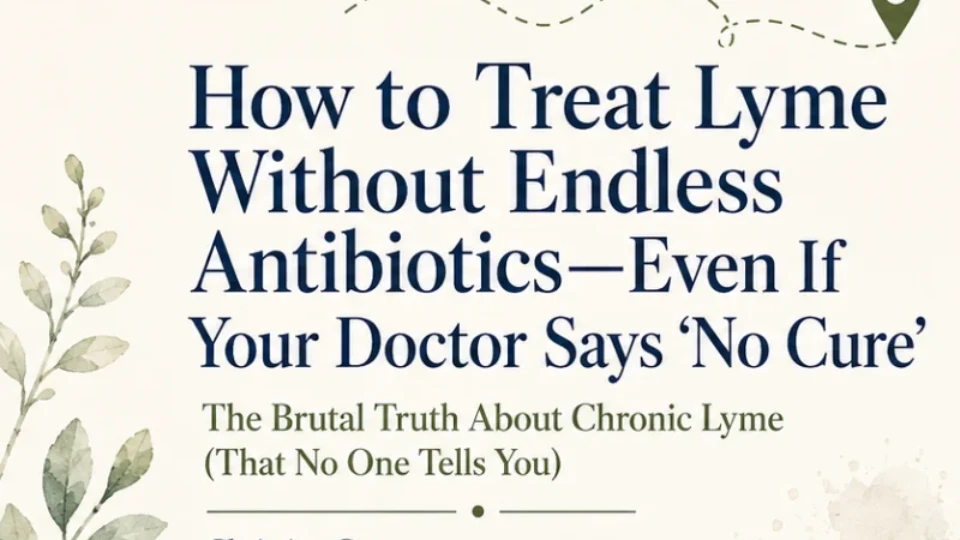
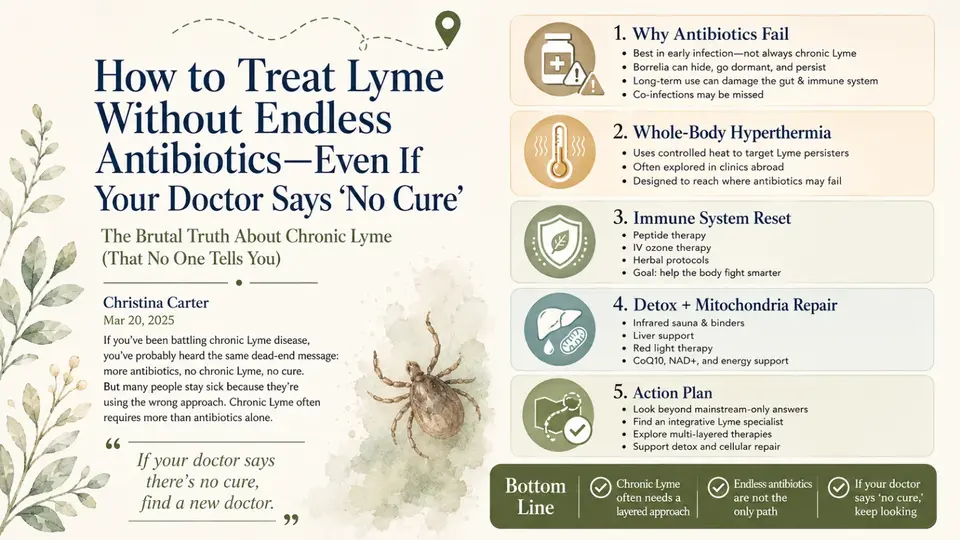
Polish two more blog card thumbnails (roadmap + treat-without-antibiotics) (#108)
Follow-up to the card-thumbnail fixes. Both cards were technically
readable but imperfect:

- Treat Lyme Without Antibiotics: the card was a slice of the taller
  infographic (byline cut, looked empty). Rebuilt it from the clean
  1600x900 source (treat-lyme-without-antibiotics-infographic.webp) so
  the full composition shows; cache-bust ?v=20261109 (filename unchanged).

- Chronic Lyme Recovery Roadmap: the card used the full 3:2 image, which
  cover-cropped the eyebrow label and bottom tagline on the 16:9 card.
  Added a dedicated 16:9 center crop (keeps the title and the full "360°
  Roadmap" strip) and repointed the 7 post-card usages. The roadmap page
  hero/og and the homepage feature banner still use the full image.

Claude-Session: https://claude.ai/code/session_0147C8brWaCjPDSG4Vf6wbng

diff --git a/blog-antibiotics.html b/blog-antibiotics.html
@@ -351,7 +351,7 @@
     <div class="rn-head"><span class="eyebrow">Keep Reading</span><h2>What to read next</h2></div>
     <div class="rn-grid">
       <a class="post-card" href="blog-treat-lyme-without-antibiotics.html">
-        <div class="media"><img width="960" height="540" src="assets/img/treat-lyme-without-antibiotics-infographic-card.webp" alt="How to treat Lyme without endless antibiotics" loading="lazy" decoding="async" style="width:100%;height:100%;object-fit:cover;display:block;" /></div>
+        <div class="media"><img width="960" height="540" src="assets/img/treat-lyme-without-antibiotics-infographic-card.webp?v=20261109" alt="How to treat Lyme without endless antibiotics" loading="lazy" decoding="async" style="width:100%;height:100%;object-fit:cover;display:block;" /></div>
         <div class="body">
           <div class="cat">Treatment · Beyond Antibiotics</div>
           <h3>How to Treat Lyme Without Endless Antibiotics</h3>
@@ -365,7 +365,7 @@
         </div>
       </a>
       <a class="post-card" href="chronic-lyme-recovery-roadmap.html">
-        <div class="media"><img width="1536" height="1024" src="assets/img/chronic-lyme-recovery-roadmap.webp" alt="The Chronic Lyme Recovery Roadmap" loading="lazy" decoding="async" style="width:100%;height:100%;object-fit:cover;display:block;" /></div>
+        <div class="media"><img width="1536" height="1024" src="assets/img/chronic-lyme-recovery-roadmap-card.webp" alt="The Chronic Lyme Recovery Roadmap" loading="lazy" decoding="async" style="width:100%;height:100%;object-fit:cover;display:block;" /></div>
         <div class="body">
           <div class="cat">★ Keystone Guide</div>
           <h3>The Chronic Lyme Recovery Roadmap</h3>

diff --git a/blog-chronic-lyme-framework.html b/blog-chronic-lyme-framework.html
@@ -393,7 +393,7 @@
     <div class="rn-head"><span class="eyebrow">Keep Reading</span><h2>What to read next</h2></div>
     <div class="rn-grid">
       <a class="post-card" href="blog-treat-lyme-without-antibiotics.html">
-        <div class="media"><img width="960" height="540" src="assets/img/treat-lyme-without-antibiotics-infographic-card.webp" alt="How to treat Lyme without endless antibiotics" loading="lazy" decoding="async" style="width:100%;height:100%;object-fit:cover;display:block;" /></div>
+        <div class="media"><img width="960" height="540" src="assets/img/treat-lyme-without-antibiotics-infographic-card.webp?v=20261109" alt="How to treat Lyme without endless antibiotics" loading="lazy" decoding="async" style="width:100%;height:100%;object-fit:cover;display:block;" /></div>
         <div class="body">
           <div class="cat">Treatment · Beyond Antibiotics</div>
           <h3>How to Treat Lyme Without Endless Antibiotics</h3>
@@ -407,7 +407,7 @@
         </div>
       </a>
       <a class="post-card" href="chronic-lyme-recovery-roadmap.html">
-        <div class="media"><img width="1536" height="1024" src="assets/img/chronic-lyme-recovery-roadmap.webp" alt="The Chronic Lyme Recovery Roadmap" loading="lazy" decoding="async" style="width:100%;height:100%;object-fit:cover;display:block;" /></div>
+        <div class="media"><img width="1536" height="1024" src="assets/img/chronic-lyme-recovery-roadmap-card.webp" alt="The Chronic Lyme Recovery Roadmap" loading="lazy" decoding="async" style="width:100%;height:100%;object-fit:cover;display:block;" /></div>
         <div class="body">
           <div class="cat">★ Keystone Guide</div>
           <h3>The Chronic Lyme Recovery Roadmap</h3>

diff --git a/chronic-lyme-treatment.html b/chronic-lyme-treatment.html
@@ -476,14 +476,14 @@
     <div class="rn-head"><span class="eyebrow">Keep Reading</span><h2>What to read next</h2></div>
     <div class="rn-grid">
       <a class="post-card" href="chronic-lyme-recovery-roadmap.html">
-        <div class="media"><img width="1536" height="1024" src="assets/img/chronic-lyme-recovery-roadmap.webp" alt="The Chronic Lyme Recovery Roadmap" loading="lazy" decoding="async" style="width:100%;height:100%;object-fit:cover;display:block;" /></div>
+        <div class="media"><img width="1536" height="1024" src="assets/img/chronic-lyme-recovery-roadmap-card.webp" alt="The Chronic Lyme Recovery Roadmap" loading="lazy" decoding="async" style="width:100%;height:100%;object-fit:cover;display:block;" /></div>
         <div class="body">
           <div class="cat">★ Keystone Guide</div>
           <h3>The Chronic Lyme Recovery Roadmap</h3>
         </div>
       </a>
       <a class="post-card" href="blog-treat-lyme-without-antibiotics.html">
-        <div class="media"><img width="960" height="540" src="assets/img/treat-lyme-without-antibiotics-infographic-card.webp" alt="How to treat Lyme without endless antibiotics" loading="lazy" decoding="async" style="width:100%;height:100%;object-fit:cover;display:block;" /></div>
+        <div class="media"><img width="960" height="540" src="assets/img/treat-lyme-without-antibiotics-infographic-card.webp?v=20261109" alt="How to treat Lyme without endless antibiotics" loading="lazy" decoding="async" style="width:100%;height:100%;object-fit:cover;display:block;" /></div>
         <div class="body">
           <div class="cat">Treatment · Beyond Antibiotics</div>
           <h3>How to Treat Lyme Without Endless Antibiotics</h3>

diff --git a/blog.html b/blog.html
@@ -114,7 +114,7 @@
     <div class="blog-filters" id="blogFilters"></div>
     <div class="post-grid">
       <a class="post-card reveal" href="chronic-lyme-recovery-roadmap.html">
-        <div class="media"><img width="1536" height="1024" src="assets/img/chronic-lyme-recovery-roadmap.webp" alt="The Chronic Lyme Recovery Roadmap" loading="lazy" decoding="async" style="width:100%;height:100%;object-fit:cover" /></div>
+        <div class="media"><img width="1536" height="1024" src="assets/img/chronic-lyme-recovery-roadmap-card.webp" alt="The Chronic Lyme Recovery Roadmap" loading="lazy" decoding="async" style="width:100%;height:100%;object-fit:cover" /></div>
         <div class="body">
           <div class="cat">★ Keystone Guide</div>
           <h3>The Chronic Lyme Recovery Roadmap: From Diagnosis to Remission</h3>
@@ -168,7 +168,7 @@
         </div>
       </a>
       <a class="post-card reveal" href="blog-treat-lyme-without-antibiotics.html">
-        <div class="media"><img width="960" height="540" src="assets/img/treat-lyme-without-antibiotics-infographic-card.webp" alt="How to treat Lyme without endless antibiotics" loading="lazy" style="width:100%;height:100%;object-fit:cover;display:block;" /></div>
+        <div class="media"><img width="960" height="540" src="assets/img/treat-lyme-without-antibiotics-infographic-card.webp?v=20261109" alt="How to treat Lyme without endless antibiotics" loading="lazy" style="width:100%;height:100%;object-fit:cover;display:block;" /></div>
         <div class="body">
           <div class="cat">Treatment · Beyond Antibiotics</div>
           <h3>How to Treat Lyme Without Endless Antibiotics</h3>

diff --git a/blog-disulfiram-azlocillin.html b/blog-disulfiram-azlocillin.html
@@ -400,7 +400,7 @@
     <div class="rn-head"><span class="eyebrow">Keep Reading</span><h2>What to read next</h2></div>
     <div class="rn-grid">
       <a class="post-card" href="blog-treat-lyme-without-antibiotics.html">
-        <div class="media"><img width="960" height="540" src="assets/img/treat-lyme-without-antibiotics-infographic-card.webp" alt="How to treat Lyme without endless antibiotics" loading="lazy" decoding="async" style="width:100%;height:100%;object-fit:cover;display:block;" /></div>
+        <div class="media"><img width="960" height="540" src="assets/img/treat-lyme-without-antibiotics-infographic-card.webp?v=20261109" alt="How to treat Lyme without endless antibiotics" loading="lazy" decoding="async" style="width:100%;height:100%;object-fit:cover;display:block;" /></div>
         <div class="body">
           <div class="cat">Treatment · Beyond Antibiotics</div>
           <h3>How to Treat Lyme Without Endless Antibiotics</h3>

diff --git a/blog-wiegman-protocol.html b/blog-wiegman-protocol.html
@@ -444,7 +444,7 @@
     <div class="rn-head"><span class="eyebrow">Keep Reading</span><h2>What to read next</h2></div>
     <div class="rn-grid">
       <a class="post-card" href="blog-treat-lyme-without-antibiotics.html">
-        <div class="media"><img width="960" height="540" src="assets/img/treat-lyme-without-antibiotics-infographic-card.webp" alt="How to treat Lyme without endless antibiotics" loading="lazy" decoding="async" style="width:100%;height:100%;object-fit:cover;display:block;" /></div>
+        <div class="media"><img width="960" height="540" src="assets/img/treat-lyme-without-antibiotics-infographic-card.webp?v=20261109" alt="How to treat Lyme without endless antibiotics" loading="lazy" decoding="async" style="width:100%;height:100%;object-fit:cover;display:block;" /></div>
         <div class="body">
           <div class="cat">Treatment · Beyond Antibiotics</div>
           <h3>How to Treat Lyme Without Endless Antibiotics</h3>

diff --git a/blog-alpha-gal-syndrome.html b/blog-alpha-gal-syndrome.html
@@ -395,7 +395,7 @@
         </div>
       </a>
       <a class="post-card" href="blog-treat-lyme-without-antibiotics.html">
-        <div class="media"><img width="960" height="540" src="assets/img/treat-lyme-without-antibiotics-infographic-card.webp" alt="How to treat Lyme without endless antibiotics" loading="lazy" decoding="async" style="width:100%;height:100%;object-fit:cover;display:block;" /></div>
+        <div class="media"><img width="960" height="540" src="assets/img/treat-lyme-without-antibiotics-infographic-card.webp?v=20261109" alt="How to treat Lyme without endless antibiotics" loading="lazy" decoding="async" style="width:100%;height:100%;object-fit:cover;display:block;" /></div>
         <div class="body">
           <div class="cat">Treatment · Beyond Antibiotics</div>
           <h3>How to Treat Lyme Without Endless Antibiotics</h3>

diff --git a/blog-alternative-therapies.html b/blog-alternative-therapies.html
@@ -425,7 +425,7 @@
         </div>
       </a>
       <a class="post-card" href="blog-treat-lyme-without-antibiotics.html">
-        <div class="media"><img width="960" height="540" src="assets/img/treat-lyme-without-antibiotics-infographic-card.webp" alt="How to treat Lyme without endless antibiotics" loading="lazy" decoding="async" style="width:100%;height:100%;object-fit:cover;display:block;" /></div>
+        <div class="media"><img width="960" height="540" src="assets/img/treat-lyme-without-antibiotics-infographic-card.webp?v=20261109" alt="How to treat Lyme without endless antibiotics" loading="lazy" decoding="async" style="width:100%;height:100%;object-fit:cover;display:block;" /></div>
         <div class="body">
           <div class="cat">Treatment · Beyond Antibiotics</div>
           <h3>How to Treat Lyme Without Endless Antibiotics</h3>

diff --git a/blog-can-lyme-disease-kill-you.html b/blog-can-lyme-disease-kill-you.html
@@ -385,7 +385,7 @@
         </div>
       </a>
       <a class="post-card" href="blog-treat-lyme-without-antibiotics.html">
-        <div class="media"><img width="960" height="540" src="assets/img/treat-lyme-without-antibiotics-infographic-card.webp" alt="How to treat Lyme without endless antibiotics" loading="lazy" decoding="async" style="width:100%;height:100%;object-fit:cover;display:block;" /></div>
+        <div class="media"><img width="960" height="540" src="assets/img/treat-lyme-without-antibiotics-infographic-card.webp?v=20261109" alt="How to treat Lyme without endless antibiotics" loading="lazy" decoding="async" style="width:100%;height:100%;object-fit:cover;display:block;" /></div>
         <div class="body">
           <div class="cat">Treatment · Beyond Antibiotics</div>
           <h3>How to Treat Lyme Without Endless Antibiotics</h3>

diff --git a/blog-herbal-protocols-lyme.html b/blog-herbal-protocols-lyme.html
@@ -452,7 +452,7 @@
         </div>
       </a>
       <a class="post-card" href="blog-treat-lyme-without-antibiotics.html">
-        <div class="media"><img width="960" height="540" src="assets/img/treat-lyme-without-antibiotics-infographic-card.webp" alt="How to treat Lyme without endless antibiotics" loading="lazy" decoding="async" style="width:100%;height:100%;object-fit:cover;display:block;" /></div>
+        <div class="media"><img width="960" height="540" src="assets/img/treat-lyme-without-antibiotics-infographic-card.webp?v=20261109" alt="How to treat Lyme without endless antibiotics" loading="lazy" decoding="async" style="width:100%;height:100%;object-fit:cover;display:block;" /></div>
         <div class="body">
           <div class="cat">Treatment · Beyond Antibiotics</div>
           <h3>How to Treat Lyme Without Endless Antibiotics</h3>

diff --git a/blog-herxheimer-reaction.html b/blog-herxheimer-reaction.html
@@ -383,7 +383,7 @@
         </div>
       </a>
       <a class="post-card" href="blog-treat-lyme-without-antibiotics.html">
-        <div class="media"><img width="960" height="540" src="assets/img/treat-lyme-without-antibiotics-infographic-card.webp" alt="How to treat Lyme without endless antibiotics" loading="lazy" decoding="async" style="width:100%;height:100%;object-fit:cover;display:block;" /></div>
+        <div class="media"><img width="960" height="540" src="assets/img/treat-lyme-without-antibiotics-infographic-card.webp?v=20261109" alt="How to treat Lyme without endless antibiotics" loading="lazy" decoding="async" style="width:100%;height:100%;object-fit:cover;display:block;" /></div>
         <div class="body">
           <div class="cat">Treatment · Beyond Antibiotics</div>
           <h3>How to Treat Lyme Without Endless Antibiotics</h3>

diff --git a/blog-ldn-lyme.html b/blog-ldn-lyme.html
@@ -399,7 +399,7 @@
         </div>
       </a>
       <a class="post-card" href="blog-treat-lyme-without-antibiotics.html">
-        <div class="media"><img width="960" height="540" src="assets/img/treat-lyme-without-antibiotics-infographic-card.webp" alt="How to treat Lyme without endless antibiotics" loading="lazy" decoding="async" style="width:100%;height:100%;object-fit:cover;display:block;" /></div>
+        <div class="media"><img width="960" height="540" src="assets/img/treat-lyme-without-antibiotics-infographic-card.webp?v=20261109" alt="How to treat Lyme without endless antibiotics" loading="lazy" decoding="async" style="width:100%;height:100%;object-fit:cover;display:block;" /></div>
         <div class="body">
           <div class="cat">Treatment · Beyond Antibiotics</div>
           <h3>How to Treat Lyme Without Endless Antibiotics</h3>
